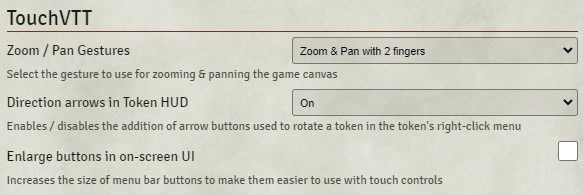
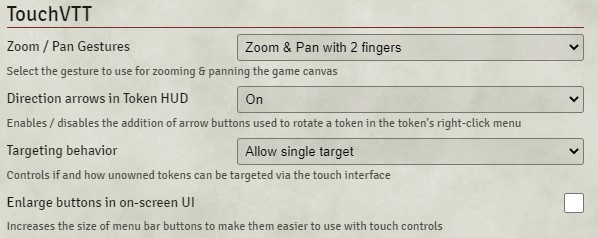
Updated Readme

Changed region(s): [[0.0, 0.0, 1.0, 0.9846]]

diff --git a/README.md b/README.md
@@ -9,6 +9,7 @@ Features:
  - Move tokens by dragging them with your finger - just as you would with the mouse
  - Move three fingers around on the canvas to pan the scene - no zooming in this mode.
  - Rotate tokens using the (optional) directional buttons added to the token right-click menu (HUD)
+ - Target hostile tokens quickly by tapping them.
  - Need to right-click to access the corresponding functionality on a game world entity? Just long-press (0.5s) 
     with your finger.
  - Move windows around and interact with their content intuitively
@@ -45,6 +46,12 @@ Primary use cases:
 This is a drop-down setting instead of a checkbox because there might be other methods to change token direction 
 in the future.
 
+#### Targeting behavior
+
+- **Off:** Targeting is unchanged from how FoundryVTT handles it natively
+- **Allow single target:** Tap a token you don't own to target it. Other targets will be released. Tap this token or any other token again to un-target it.
+- **Allow multiple targets:** Tap a token you don't own to target it in addition to any other targets you selected. Tap this token again to un-target it.
+
 #### Enlarge buttons in on-screen UI
 
 - **Checked:** Makes buttons in the left-hand menu structure easier to hit by making them larger:
@@ -64,6 +71,7 @@ when those features are locked in "Lock View".
 
 ### Changelog
 
+- **1.7.0:** Added ability to target unowned tokens by simply tapping them with your finger.
 - **1.6.0:** Added button to delete the currently selected drawing.
 - **1.5.1:** Fixed players being able to rotate their token while the game is paused. Moved enlarge buttons feature from wall tools menu to module settings.
 - **1.5.0:** Added arrow buttons to the token HUD, allowing touchscreen users to rotate their token (long-press the token to activate the HUD). Added missing translation files.
